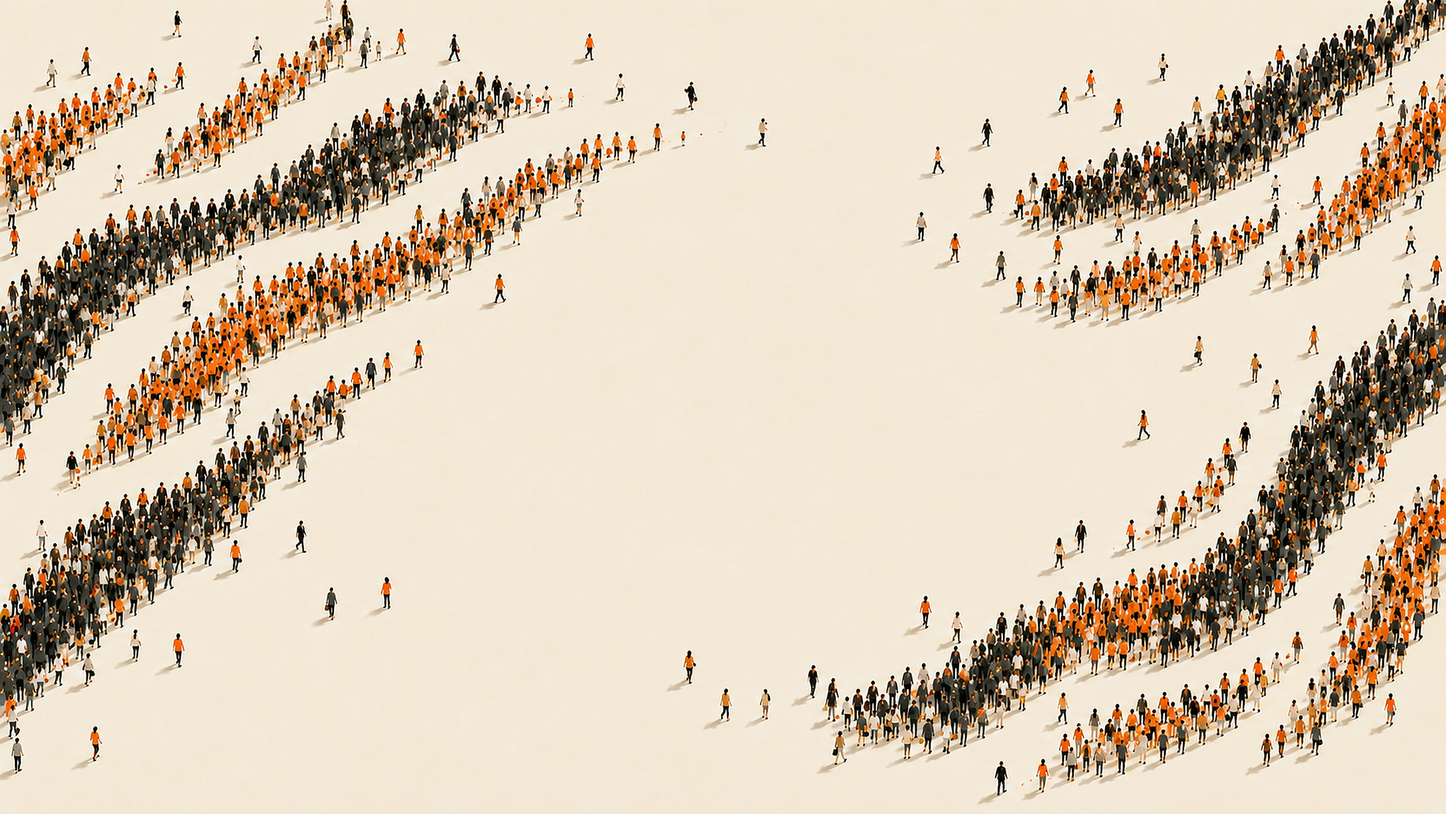
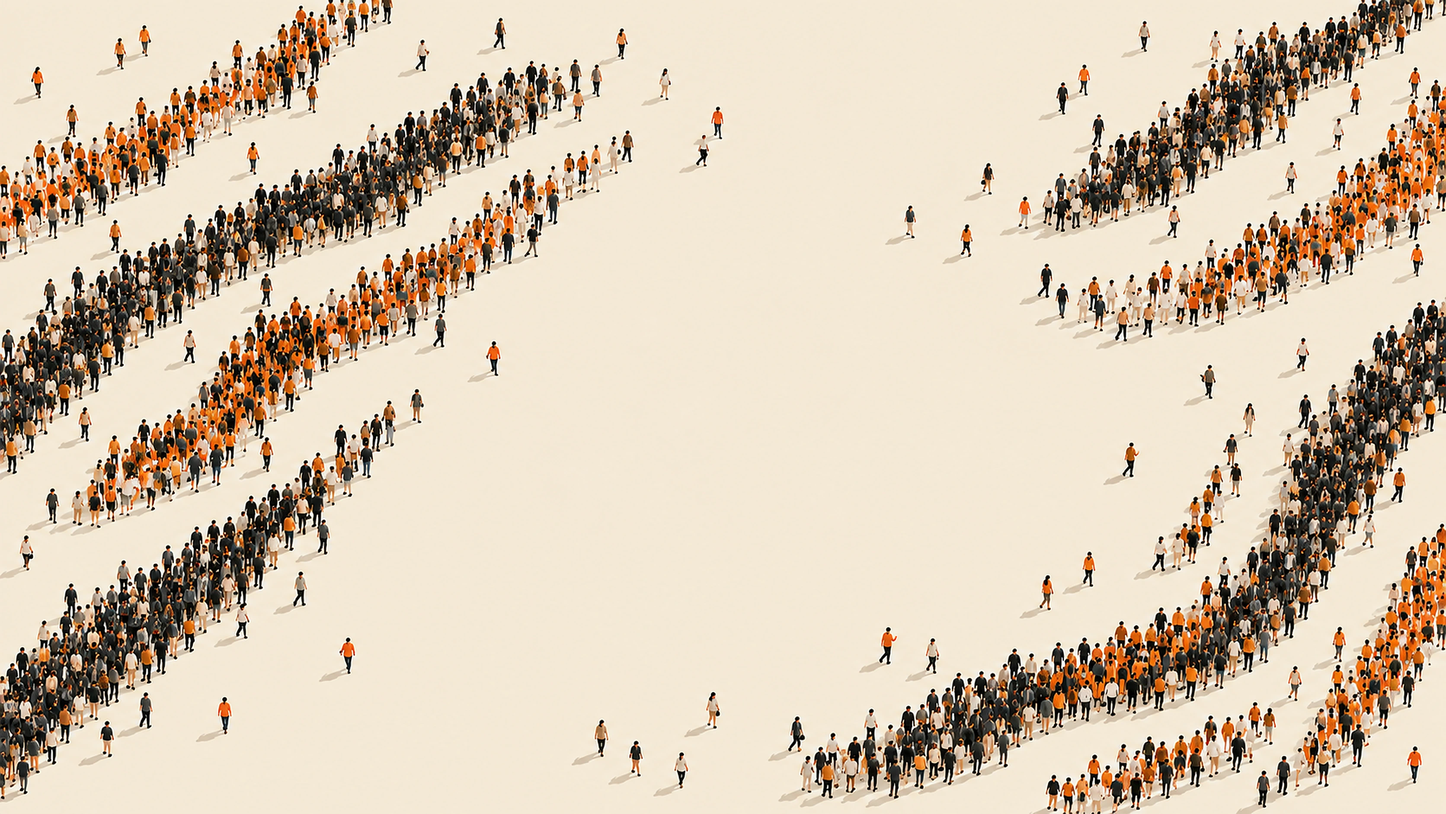
w

diff --git a/components/HumanStripes.tsx b/components/HumanStripes.tsx
@@ -5,77 +5,152 @@ import { useEffect, useState } from "react";
 /* ---------------------------------------------------------------------
    Hero crowd.
 
-   The artwork is the hero. It loads complete — there is no assembly, no
-   walk-in, no fade, nothing animated on load at all.
+   The background is the supplied artwork, untouched and static. Nothing
+   about the crowd itself is animated, recreated or redrawn.
 
-   The only motion on this screen is one person, and only on hover of
-   "Join the Club": they walk in from the nearest outer edge, join a gap
-   at the outer end of a stripe, and stop. On hover-out the same person
-   turns around and walks back off the edge. No opacity is ever animated —
-   the figure is simply parked off-frame when idle, so nothing fades in or
-   out, and it is never unmounted mid-walk.
+   On top of it, eight real people walk in:
 
-   Matching the crowd was the hard part and it is done by measurement, not
-   by eye: isolated figures in the artwork have a median height of 39.5px
-   in a 1672px-wide source. With the background rendered at 130% of the
-   viewport width, a person is therefore
+     • seven arrive one at a time after load, roughly every 1.7s, each
+       from an off-screen edge to a predetermined open spot, where they
+       stop and stay for the rest of the session;
+     • an eighth is reserved for the "Join the Club" hover — walks in on
+       hover, walks all the way back out on hover-out.
 
-       39.5 / 1672 * 1.30 * 100vw  =  3.07vw
+   Nothing fades. Ever. Each figure is mounted off-frame, translates in,
+   and stays; the hover figure parks off-frame between hovers. There is no
+   opacity transition anywhere in this component.
 
-   which is what the joiner is sized to. The sprite is cut from the same
-   family of aerial figures — same angle, same lighting, same soft
-   shadow — so at rest it should be impossible to pick out.
+   THE WALK is a real cycle, not a slide. Each sprite is a four-frame
+   sheet cut from the same aerial photography as the crowd, with the leg
+   band sheared progressively per frame so the legs actually swing. The
+   sheet is stepped with `steps(4)` while the element translates, so you
+   get walking motion plus travel.
 
-   The same sprite, path, size and destination are used on every hover, so
-   the interaction reads as deliberate rather than random. Disabled on
-   touch.
+   SCALE is derived rather than guessed. Isolated figures in the artwork
+   have a median height of 46px in a 1672px-wide source, so with the
+   background at 132% of viewport width a person is
+
+       46 / 1672 * 1.32 * 100vw  =  3.63vw
+
+   Each arrival is then nudged by a per-person factor to match the exact
+   apparent size of the people immediately around its destination — the
+   crowd has perspective, so figures low in the frame are slightly larger.
+
+   Every path is routed through the artwork's cream negative space and
+   stays on its own side of the hero, so no figure ever crosses the
+   headline, subline, logo, nav or CTA.
    --------------------------------------------------------------------- */
 
-/* One figure in the artwork, expressed in vw. See derivation above. */
-const PERSON_VW = 3.07;
+const BASE_VW = 3.63;
+const FRAMES = 4;
 
-/* Destination: the outer end of the lower-right stripe, far from the copy. */
-const DEST = { x: 87.5, y: 69 };
-const EXIT = { x: 112, y: 66 };
+type Arrival = {
+  sprite: string;
+  fw: number;          // frame width : height ratio source
+  from: "left" | "right";
+  x: number;           // destination, % of hero
+  y: number;
+  sy: number;          // entry height, % of hero
+  scale: number;       // matched to neighbours at the destination
+  flip: boolean;
+  dur: number;
+};
+
+/* Destinations sit in gaps at the outer edges of the stripes, well clear
+   of the copy. `scale` is tuned per spot against the neighbours there. */
+const ARRIVALS: Arrival[] = [
+  { sprite: "w00", fw: 153, from: "left",  x: 21.5, y: 30.0, sy: 26, scale: 0.86, flip: false, dur: 5.2 },
+  { sprite: "w03", fw: 157, from: "right", x: 79.0, y: 26.5, sy: 24, scale: 0.84, flip: true,  dur: 5.0 },
+  { sprite: "w06", fw: 142, from: "left",  x: 16.0, y: 47.0, sy: 44, scale: 0.95, flip: false, dur: 5.4 },
+  { sprite: "w09", fw: 146, from: "right", x: 83.5, y: 44.0, sy: 42, scale: 0.93, flip: true,  dur: 5.2 },
+  { sprite: "w11", fw: 148, from: "left",  x: 24.0, y: 63.0, sy: 62, scale: 1.04, flip: false, dur: 5.6 },
+  { sprite: "w02", fw: 150, from: "right", x: 76.5, y: 66.0, sy: 66, scale: 1.07, flip: true,  dur: 5.4 },
+  { sprite: "w08", fw: 148, from: "left",  x: 12.5, y: 79.0, sy: 80, scale: 1.14, flip: false, dur: 5.8 },
+];
+
+const JOINER: Arrival = {
+  sprite: "w05", fw: 162, from: "right", x: 86.0, y: 71.5, sy: 70, scale: 1.10, flip: true, dur: 3.0,
+};
+
+function Walker({
+  a,
+  active,
+  walking,
+}: {
+  a: Arrival;
+  active: boolean;
+  walking: boolean;
+}) {
+  const off = a.from === "left" ? -12 : 112;
+  const h = BASE_VW * a.scale;
+  return (
+    <span
+      className={`hero-walker${walking ? " is-walking" : ""}`}
+      style={{
+        height: `${h}vw`,
+        width: `${(h * a.fw) / 190}vw`,
+        left: `${active ? a.x : off}%`,
+        top: `${active ? a.y : a.sy}%`,
+        transform: `translate(-50%, -100%) scaleX(${a.flip ? -1 : 1})`,
+        backgroundImage: `url(/images/walkers/${a.sprite}.webp)`,
+        backgroundSize: `${FRAMES * 100}% 100%`,
+        transition: `left ${a.dur}s linear, top ${a.dur}s linear`,
+      }}
+    />
+  );
+}
 
 export default function HumanStripes() {
   const [mob, setMob] = useState(false);
+  const [reduced, setReduced] = useState(false);
+  const [arrived, setArrived] = useState(0);     // how many of the 7 have set off
+  const [walking, setWalking] = useState(0);     // how many are still mid-walk
   const [joining, setJoining] = useState(false);
 
   useEffect(() => {
     const mobile = window.matchMedia("(max-width: 767px)").matches;
-    const coarse = window.matchMedia("(pointer: coarse)").matches;
+    const r = window.matchMedia("(prefers-reduced-motion: reduce)").matches;
     setMob(mobile);
+    setReduced(r);
 
+    const timers: number[] = [];
+    if (!r) {
+      ARRIVALS.forEach((a, i) => {
+        const start = 900 + i * 1700;
+        timers.push(window.setTimeout(() => setArrived((n) => Math.max(n, i + 1)), start));
+        timers.push(window.setTimeout(() => setWalking((n) => n | (1 << i)), start));
+        timers.push(
+          window.setTimeout(() => setWalking((n) => n & ~(1 << i)), start + a.dur * 1000)
+        );
+      });
+    } else {
+      setArrived(ARRIVALS.length);
+    }
+
+    const coarse = window.matchMedia("(pointer: coarse)").matches;
     const onJoin = (e: Event) => {
       if (coarse || mobile) return;
       setJoining((e as CustomEvent<boolean>).detail === true);
     };
     window.addEventListener("tigerclub:join-hover", onJoin as EventListener);
-    return () => window.removeEventListener("tigerclub:join-hover", onJoin as EventListener);
+    return () => {
+      timers.forEach(clearTimeout);
+      window.removeEventListener("tigerclub:join-hover", onJoin as EventListener);
+    };
   }, []);
 
   return (
     <div aria-hidden="true" className="hero-crowd">
       <div className={`hero-crowd-art ${mob ? "is-mobile" : ""}`} />
       {mob && <div className="hero-crowd-art-b" />}
-      {/* keeps the nav legible where the artwork runs under it */}
       <div className="hero-crowd-top" />
 
-      {!mob && (
-        <img
-          src="/images/walkers/w05.webp"
-          alt=""
-          className="hero-joiner"
-          style={{
-            height: `${PERSON_VW}vw`,
-            left: `${joining ? DEST.x : EXIT.x}%`,
-            top: `${joining ? DEST.y : EXIT.y}%`,
-            // facing left on the way in, right on the way back out
-            transform: `translate(-50%, -100%) scaleX(${joining ? -1 : 1})`,
-          }}
-        />
-      )}
+      {!mob &&
+        ARRIVALS.map((a, i) => (
+          <Walker key={a.sprite} a={a} active={i < arrived} walking={!reduced && !!(walking & (1 << i))} />
+        ))}
+
+      {!mob && <Walker a={JOINER} active={joining} walking={true} />}
     </div>
   );
 }

diff --git a/app/globals.css b/app/globals.css
@@ -455,7 +455,7 @@ body {
   inset: 0;
   background-image: url("/images/crowd-stripes.webp");
   background-repeat: no-repeat;
-  background-size: 130% auto;
+  background-size: 132% auto;
   background-position: 50% 52%;
 }
 
@@ -510,19 +510,35 @@ body {
   mask-image: linear-gradient(to top, #000 60%, transparent 100%);
 }
 
-/* The only animation in the hero. Position only — never opacity, so the
-   figure never fades; it is simply parked off-frame when idle. */
-.hero-joiner {
+/* The eight arriving figures.
+
+   Position is animated, never opacity — nothing in this hero fades. Each
+   element is a four-frame walk sheet; `steps(4)` swaps frames so the legs
+   swing while the element translates, which is what makes it read as
+   walking rather than sliding. The cycle only runs while a figure is
+   actually in motion. */
+.hero-walker {
   position: absolute;
-  width: auto;
+  display: block;
+  background-repeat: no-repeat;
+  background-position: 0% 0%;
   user-select: none;
-  will-change: left, top;
-  transition: left 2.4s cubic-bezier(0.42, 0, 0.32, 1),
-    top 2.4s cubic-bezier(0.42, 0, 0.32, 1);
+  pointer-events: none;
+  will-change: left, top, background-position;
+}
+
+.hero-walker.is-walking {
+  animation: tc-walk 0.62s steps(4) infinite;
+}
+
+@keyframes tc-walk {
+  from { background-position: 0% 0%; }
+  to   { background-position: 133.334% 0%; }
 }
 
 @media (prefers-reduced-motion: reduce) {
-  .hero-joiner {
+  .hero-walker {
     transition: none;
+    animation: none;
   }
 }

diff --git a/BACKGROUND-SYSTEM.md b/BACKGROUND-SYSTEM.md
@@ -1295,3 +1295,51 @@ between them.
 
 Unused walker sprites were deleted; only the one used by the hover remains.
 Hero only — nothing else on the site changed.
+
+---
+
+# Hero v5 — eight people join a static crowd
+
+## Background
+
+The new ultra-HD artwork, static and untouched. Cream colour-matched to
+`#F4E9D6` (`251,237,218` → `244,232,213`), supersampled 2× to 3344×1882 with an
+unsharp pass at q93 so big viewports downsample rather than upscale. Rendered at
+`132%` / `50% 52%`, which keeps the copy zone effectively clear while both bands
+stay out at the edges. Nothing about the crowd is recreated or animated.
+
+## The walk is a real cycle
+
+Each sprite is a **four-frame sheet** cut from the same aerial photography as the
+crowd. Frames are generated by shearing the leg band progressively — ramped from
+zero at the hip with a squared falloff, so the legs swing without leaving a seam
+across the waist (the first attempt sheared from full amplitude and printed a
+visible line there). CSS `steps(4)` swaps frames while the element translates,
+so the figures walk rather than slide.
+
+## Blending
+
+Scale is derived, not guessed. Isolated figures in the artwork have a median
+height of **46px in a 1672px source**, so at a 132% background a person is
+`46 / 1672 × 1.32 × 100vw = 3.63vw`. Each of the eight then carries a per-person
+factor (0.84–1.14) matched to the people immediately around its destination,
+because the artwork has perspective — figures lower in the frame are larger.
+Eight different sprites, so none of them are clones.
+
+## Behaviour
+
+Seven arrive one at a time from ~0.9s, every 1.7s, each from an off-screen edge
+to a fixed spot, then stop and stay for the session. **No opacity is animated
+anywhere** — figures are mounted off-frame and translate in. Reset only on
+refresh.
+
+The eighth is reserved for the Join hover: walks in on hover, turns and walks
+fully off-frame on hover-out, same sprite/path/scale/destination every time.
+Verified: joins at x=1214 h=57px opacity 1, exits fully off-screen at x=1588
+still at opacity 1.
+
+Paths run through the artwork's cream negative space and stay on their own side
+of the hero, so nothing crosses the headline, subline, logo, nav or CTA.
+
+Disabled on mobile and under reduced motion (static artwork only). Unused walk
+sheets pruned; only the eight in use ship.
